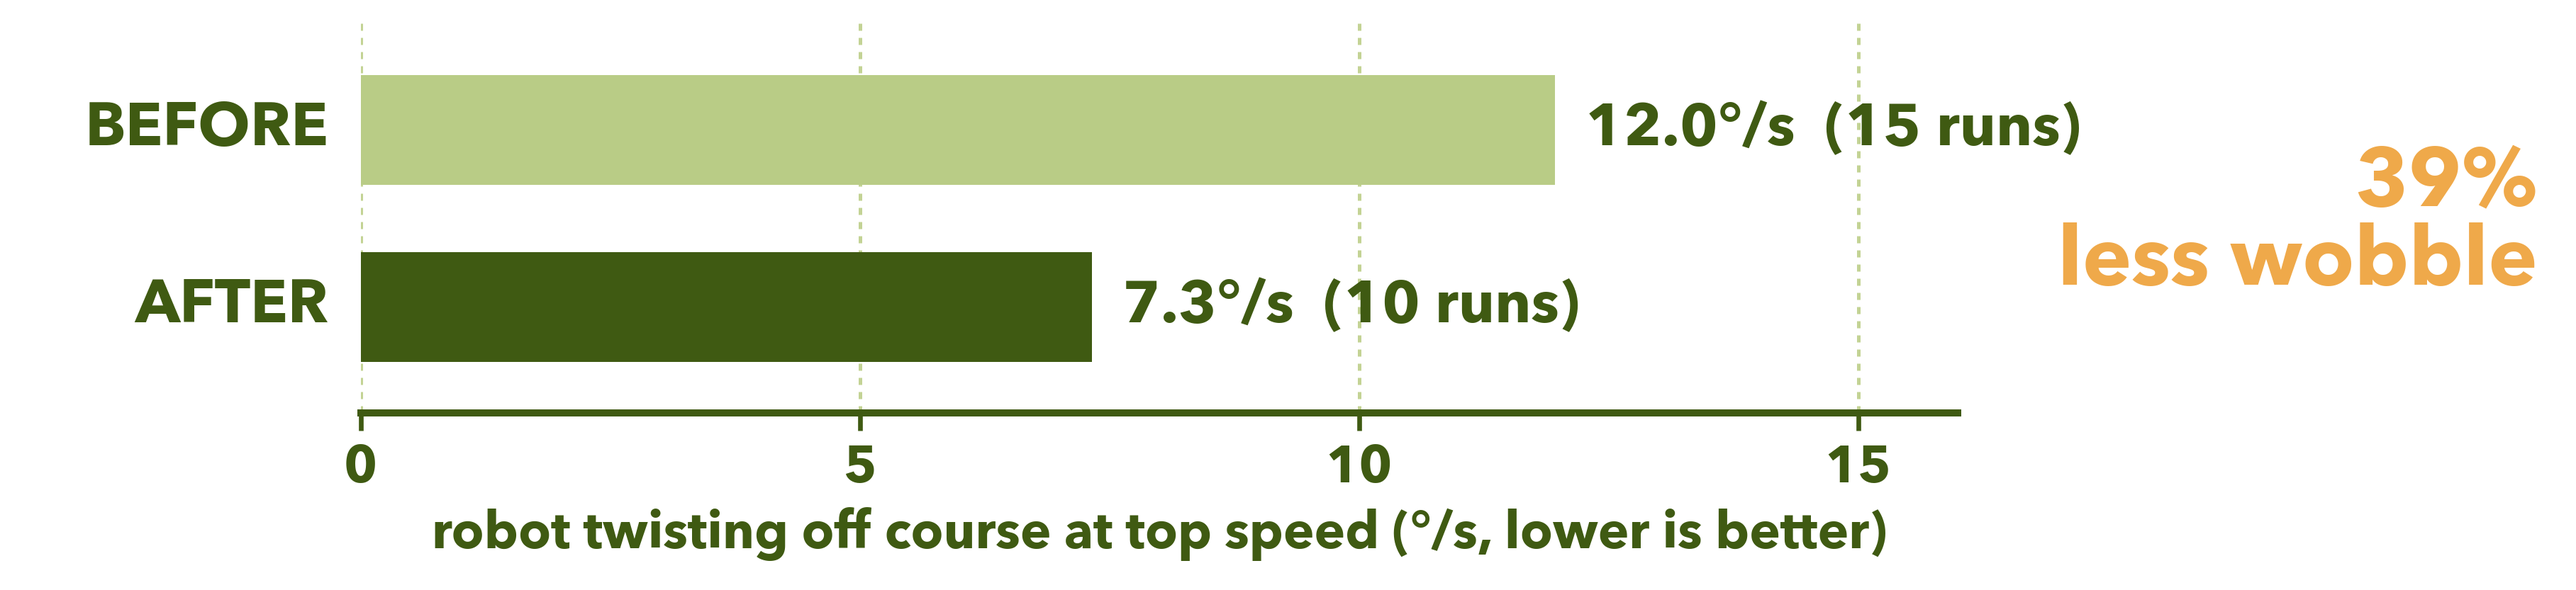
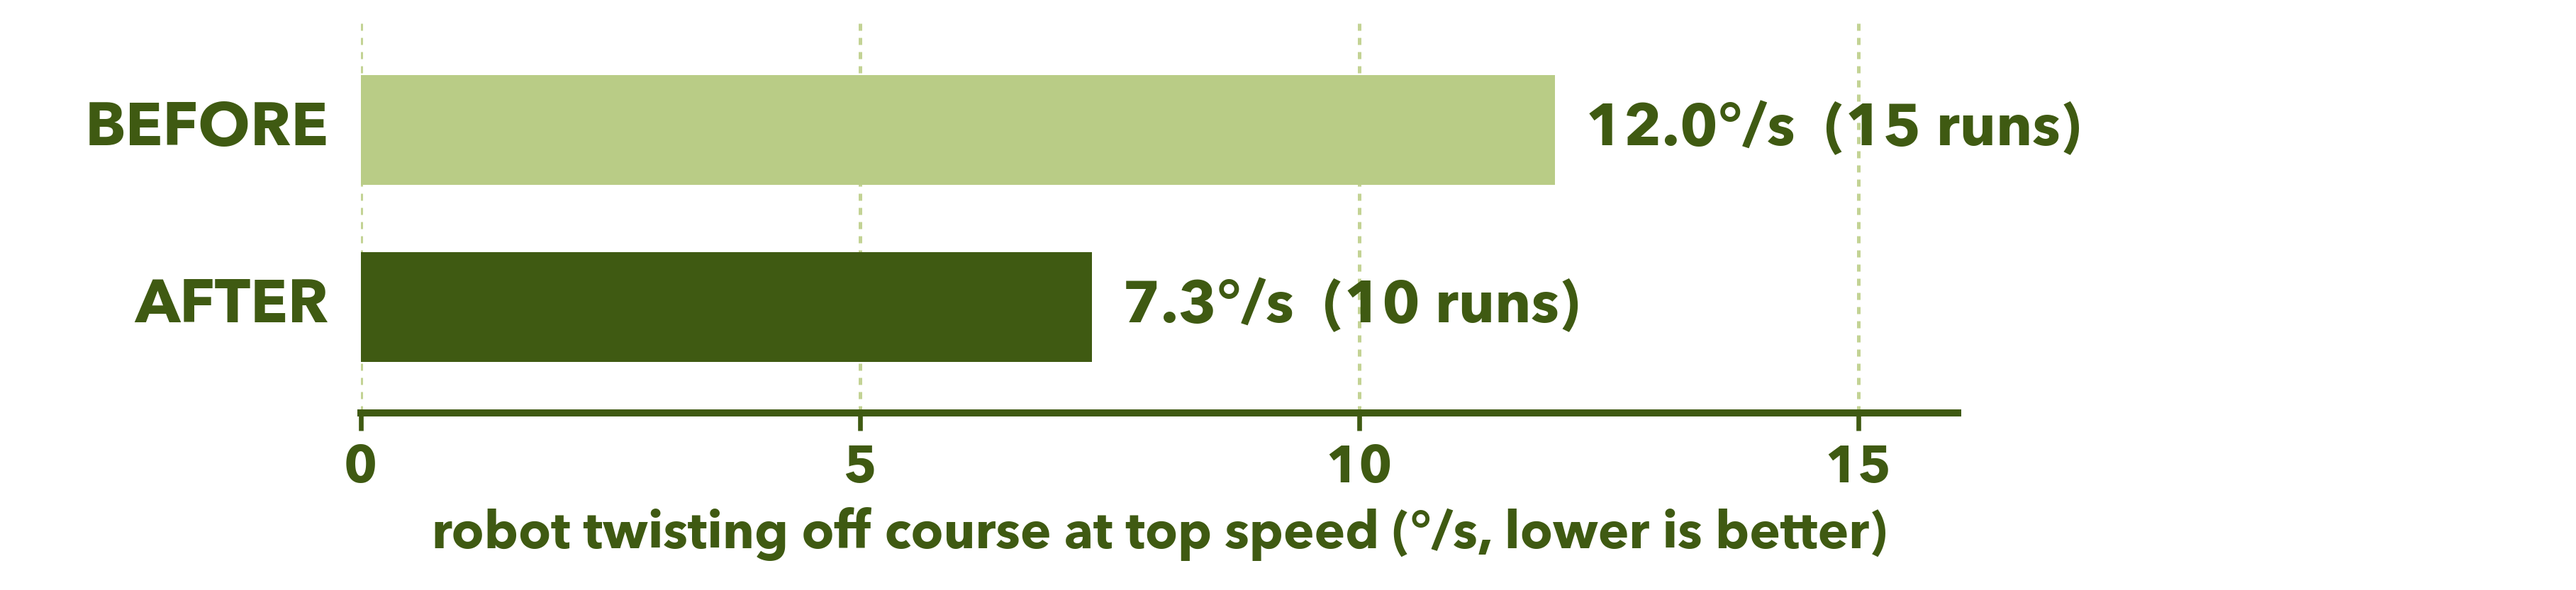
Portfolio swerve before/after chart: callout moved out of the image into Slides text (tool)

Changed region(s): [[0.7776, 0.3745, 0.9953, 0.4994], [0.902, 0.2497, 0.9953, 0.3433]]

diff --git a/tools/portfolio/swerve/speed_testing.py b/tools/portfolio/swerve/speed_testing.py
@@ -98,7 +98,7 @@ for yv, arr, col, lab in ((1, A, "#B9CC86", "BEFORE"), (0, B, DARK, "AFTER")):
     ax.text(-0.02, yv, lab, transform=ax.get_yaxis_transform(), ha="right", va="center", fontsize=5.2, color=DARK, fontweight="bold")
     ax.text(arr.mean() + 0.3, yv, f"{arr.mean():.1f}\u00b0/s  ({len(arr)} runs)", ha="left", va="center", fontsize=5.0, color=DARK, fontweight="bold")
 cut = (A.mean() - B.mean()) / A.mean()
-ax.text(0.985, 0.62, f"{cut:.0%}\nless wobble", transform=fig.transFigure, ha="right", va="center", fontsize=7.0, color=ORANGE, fontweight="bold", linespacing=0.95)
+# the "39% less wobble" callout is native Slides text (Permanent Marker, the deck stat font), not part of the image
 ax.set_ylim(-0.6, 1.6); ax.set_yticks([]); ax.set_xlim(0, 16); ax.set_xticks([0, 5, 10, 15])
 ax.grid(True, axis="x", color=GRID, lw=0.3, ls=(0, (2, 2))); ax.set_axisbelow(True)
 for sp_ in ("top", "right", "left"): ax.spines[sp_].set_visible(False)
